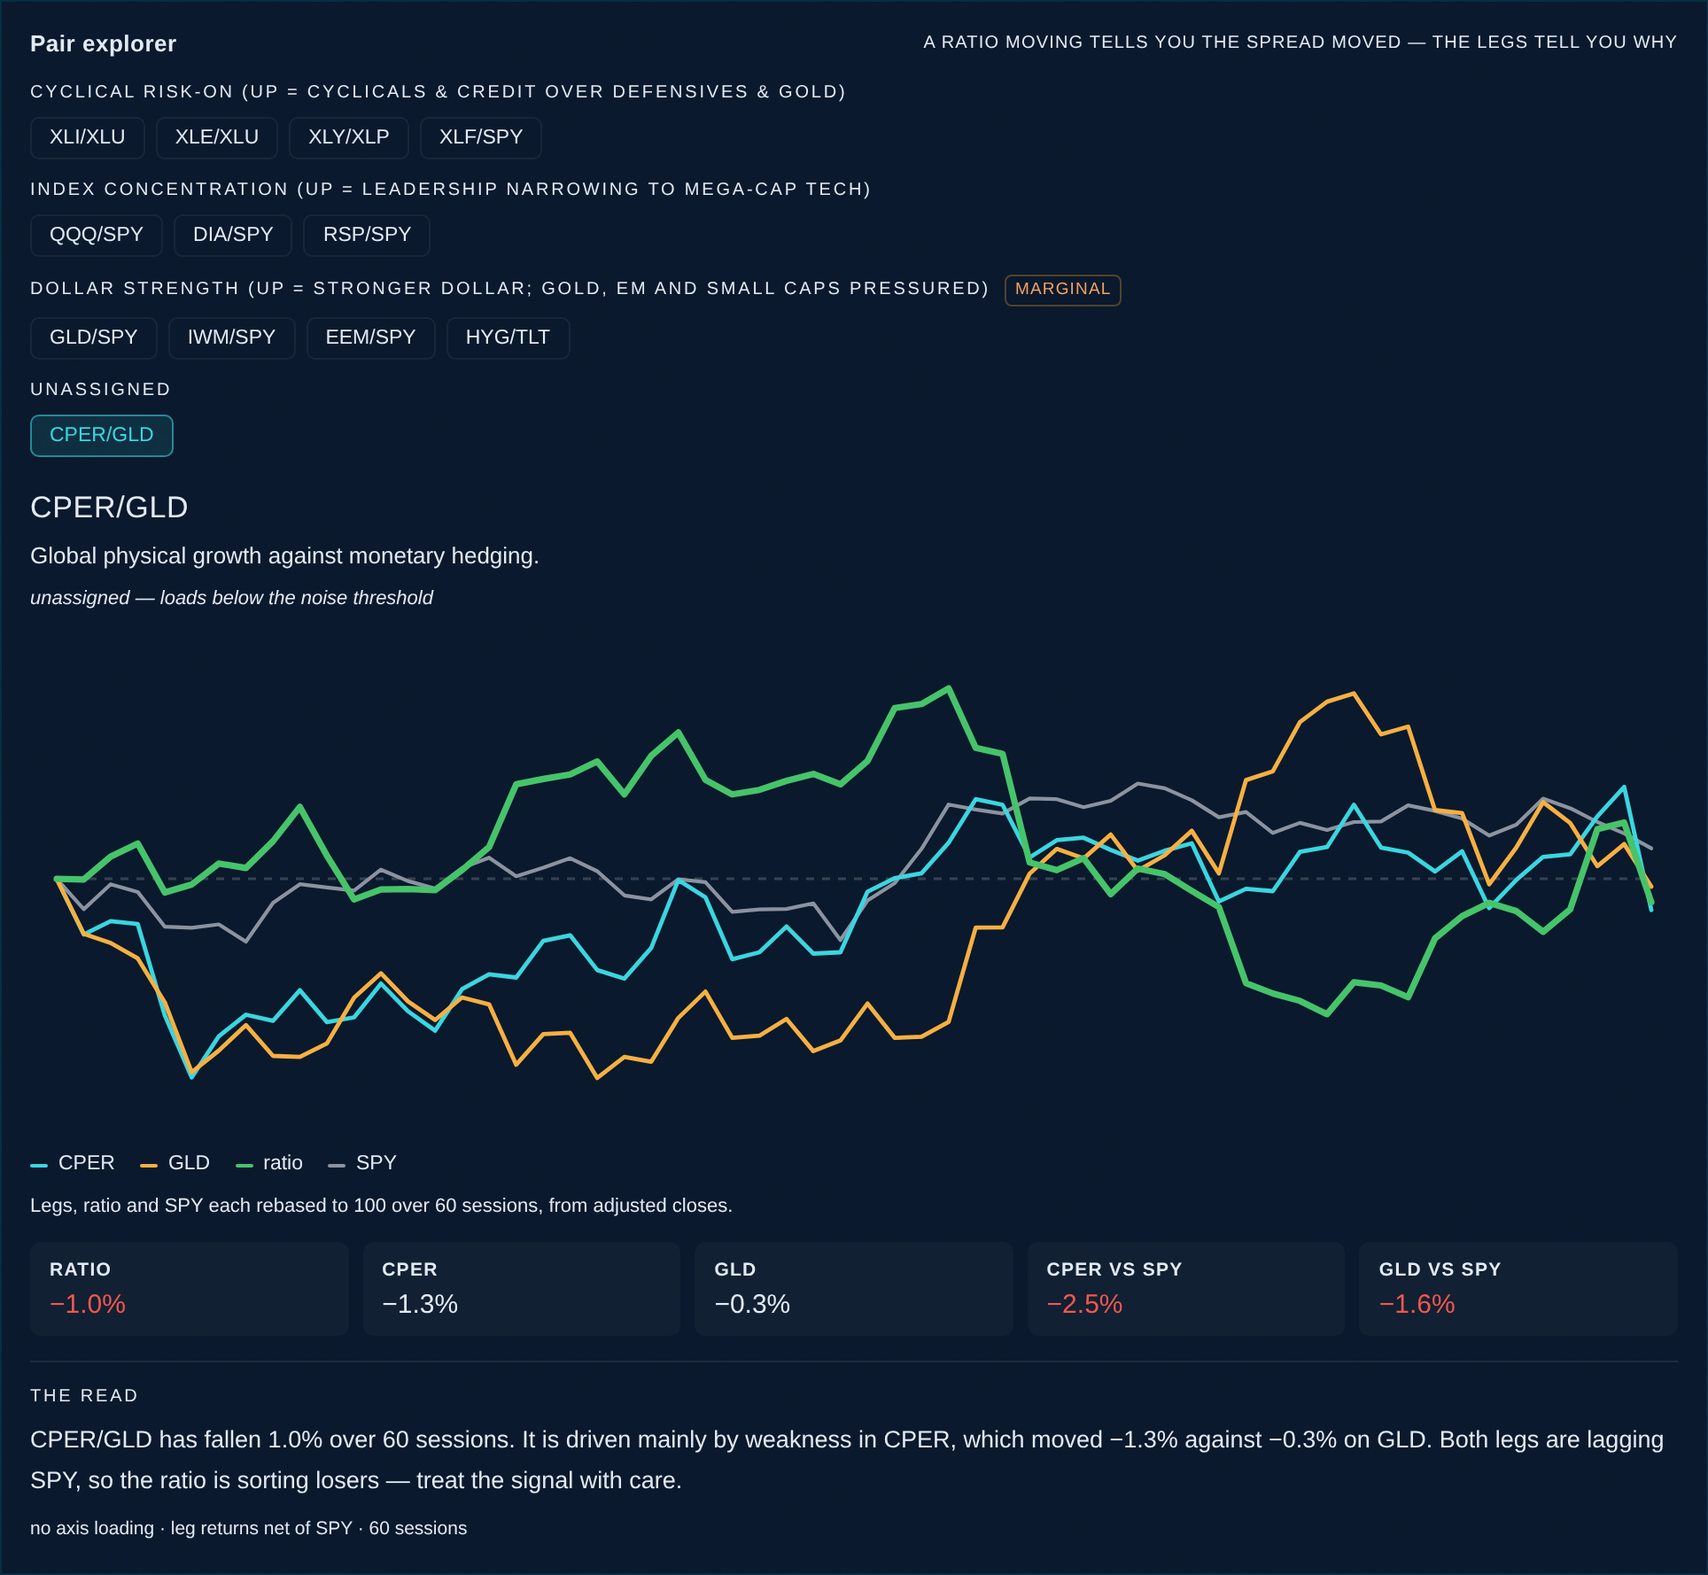
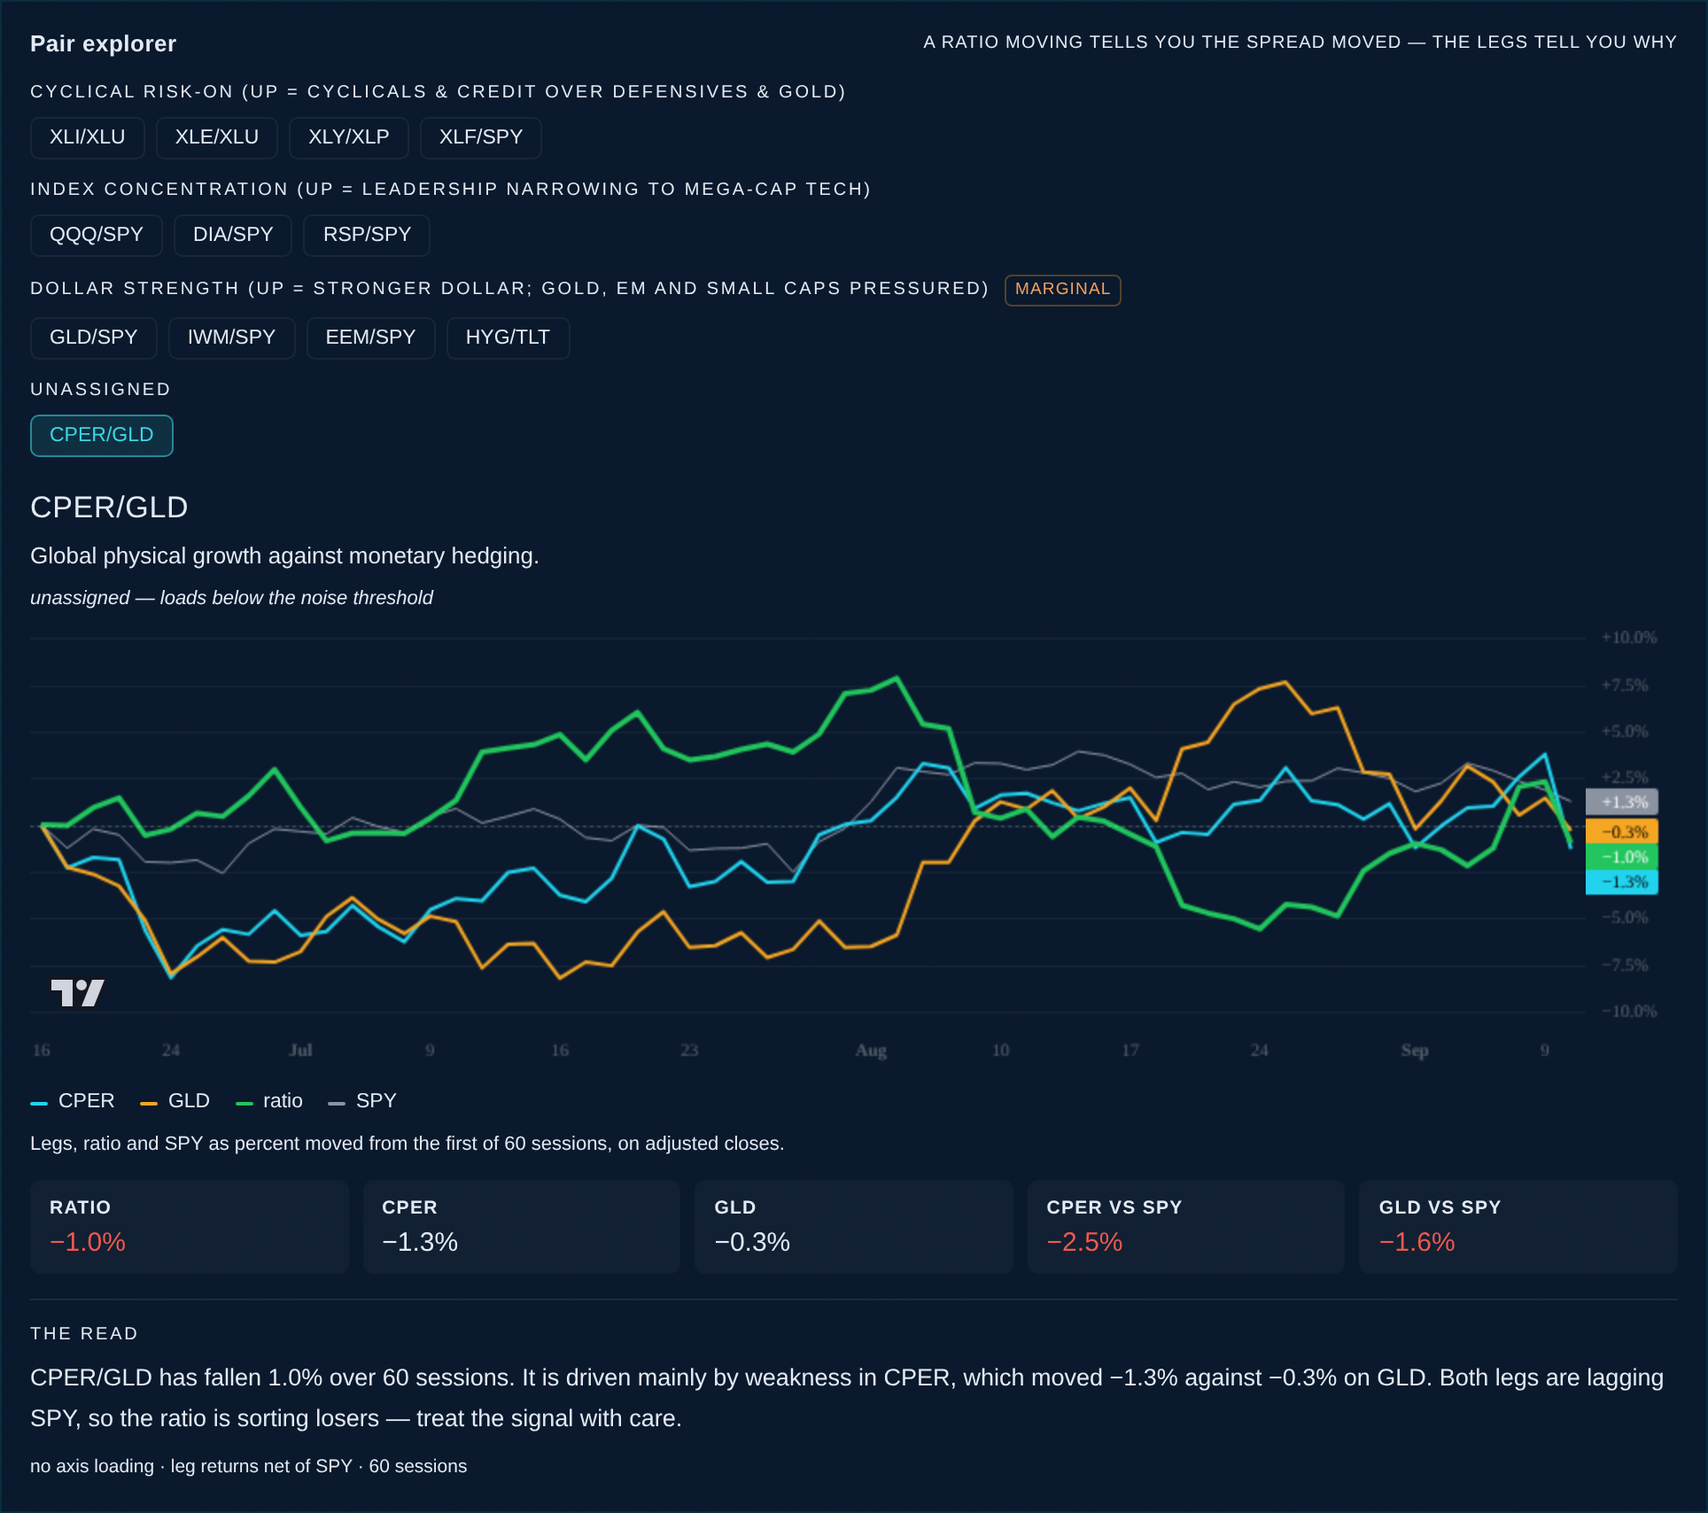
A2.2: put the pair chart on lightweight-charts, with both axes
The explorer drew four <path> elements into a bare <svg>. No time axis, no
value axis, and the series plotted as an index rebased to 100 against a dashed
rule at 100 -- so a reader could see that lines diverged and could not say when
or by how much.

Now lightweight-charts v5: TradingView's library, already a dependency and
already what NexusBoard and the perf panels draw with. Real date axis, real
percent axis, house grid and crosshair, one last-value badge per line.

THE SERIES ARE PERCENT FROM THE FIRST SESSION, NOT AN INDEX. buildSeries
rebases to 100, so `rebased - 100` IS that percent -- (v/v0)*100 - 100 =
(v/v0 - 1)*100 -- which needs no second normalisation and no change to the
compute module or its 24 tests. It also puts the baseline on 0, the only value
a percent axis can honestly anchor to: a dashed line at 100 reads as a level,
and a reader cannot tell a level from a move.

The last-value badges reproduce the metric tiles exactly (XLI/XLU: ratio +0.1%,
XLI -4.9%, XLU -5.0%, SPY +1.3%), because both come off the same series. That
is a free cross-check, not a coincidence.

baseOpts and the useChart hook move out of NexusBoard.js into
src/pages/nexus/nexusChart.js now that a second panel reads them. A second copy
is how two charts in the same module drift apart on grid colour, font and scale
margins until nobody can say which is the house style. NexusBoard's behaviour is
unchanged -- same options, same hook, same call sites.
[…]

diff --git a/src/pages/nexus/NexusPairExplorer.js b/src/pages/nexus/NexusPairExplorer.js
@@ -13,12 +13,14 @@
 // ============================================================
 
 import React from 'react';
+import * as LC from 'lightweight-charts';
 import { supabase } from '../../lib/supabase.js';
+import { CHART_COL, useLwChart } from './nexusChart.js';
 import {
     groupPairsByAxis, alignedWindow, buildSeries, metricTiles, pairRead,
 } from './nexusPairsCompute.js';
 
-const { useState, useEffect, useMemo } = React;
+const { useState, useEffect, useMemo, useRef } = React;
 const e = React.createElement;
 
 const WINDOW_SESSIONS = 60;
@@ -26,12 +28,16 @@ const BENCHMARK = 'SPY';
 // Enough calendar to cover 60 sessions with slack for holidays.
 const LOOKBACK_DAYS = 130;
 
-// SPY is not decoration -- it is what lets the read establish whether either
-// leg is actually beating the market, so it needs to be legible. A CSS
-// variable resolved almost to the background here; this is an explicit
-// neutral, heavy enough to follow and cool enough not to compete with the
-// three data lines.
-const COLOR = { num: '#3ad6e0', den: '#f6b042', ratio: '#46c46a', bench: '#8b93a1' };
+// The three data lines take the house chart palette so this panel and the
+// Board read as one system. SPY is the exception and stays an explicit
+// neutral: it is not decoration -- it is what lets the read establish
+// whether either leg is actually beating the market, so it has to be
+// legible. A CSS variable resolved almost to the background here, and the
+// house `dim` is darker still; this grey is heavy enough to follow and cool
+// enough not to compete with the three data lines.
+const COLOR = { num: CHART_COL.cyan, den: CHART_COL.amber, ratio: CHART_COL.green, bench: '#8b93a1' };
+
+const CHART_H = 250;
 
 // PostgREST caps at 1,000 rows whatever `limit` says. 60 sessions across 17
 // symbols is ~1,020 — over the cap by a hair, which is exactly how this
@@ -97,36 +103,64 @@ function usePairData() {
 }
 
 // ── Chart ────────────────────────────────────────────────────
-function Chart({ series, benchIsLeg }) {
-    if (!series || !series.dates.length) return null;
-    const W = 620, H = 190, PAD = 10;
-    const lines = [
-        // In every `X/SPY` pair the benchmark IS a leg, and drawing it again
-        // as a reference puts two identical lines on the chart -- one of them
-        // hidden under the other, and both in the legend under the same name.
-        ...(benchIsLeg ? [] : [{ pts: series.benchRebased, c: COLOR.bench, w: 1.4 }]),
-        { pts: series.numRebased, c: COLOR.num, w: 1.6 },
-        { pts: series.denRebased, c: COLOR.den, w: 1.6 },
-        // The ratio is the subject; it carries the heaviest stroke.
-        { pts: series.ratioRebased, c: COLOR.ratio, w: 2.4 },
-    ];
-    const all = lines.flatMap(l => l.pts).filter(Number.isFinite).concat([100]);
-    let lo = Math.min(...all), hi = Math.max(...all);
-    const pad = (hi - lo) * 0.08 || 1;
-    lo -= pad; hi += pad;
-    const y = v => PAD + (H - 2 * PAD) * (1 - (v - lo) / (hi - lo));
-    const x = i => PAD + (W - 2 * PAD) * (series.dates.length > 1 ? i / (series.dates.length - 1) : 0);
-    const d = pts => pts.map((v, i) => (i ? 'L' : 'M') + x(i).toFixed(1) + ' ' + y(v).toFixed(1)).join(' ');
+// lightweight-charts (v5), the same scaffold the Board and the perf panels
+// use, so this panel carries real axes: dates along the bottom, percent up
+// the side. The hand-rolled SVG it replaces had neither, which left the
+// reader with four lines and no way to say when anything happened or how
+// far it moved.
+//
+// THE SERIES ARE PLOTTED AS PERCENT FROM THE FIRST SESSION, not as an
+// index. buildSeries rebases to 100, so `rebased - 100` IS that percent --
+// (v/v0)*100 - 100 = (v/v0 - 1)*100 -- with no second normalisation and no
+// change to the compute module. It also puts the baseline on 0, which is
+// the only value a percent axis can honestly anchor to; a dashed line at
+// 100 reads as a level, and a reader cannot tell a level from a move.
+const fmtPct = v => (v < 0 ? '−' : '+') + Math.abs(v).toFixed(1) + '%';
 
-    return e('svg', {
-        viewBox: '0 0 ' + W + ' ' + H, width: '100%', className: 'np-chart', role: 'img',
-        'aria-label': 'Both legs, their ratio and SPY, each rebased to 100 over ' + series.dates.length + ' sessions',
-    },
-        e('line', { x1: PAD, y1: y(100), x2: W - PAD, y2: y(100), stroke: 'rgba(255,255,255,.18)', strokeWidth: 1, strokeDasharray: '3 3' }),
-        lines.map((l, i) => e('path', {
-            key: i, d: d(l.pts), fill: 'none', stroke: l.c, strokeWidth: l.w,
-            strokeLinejoin: 'round', strokeLinecap: 'round',
-        })));
+function Chart({ series, benchIsLeg }) {
+    const ref = useRef(null);
+
+    useLwChart(ref, function (chart) {
+        // rebased[i] - 100 is the percent move from the window's first bar.
+        const pts = arr => series.dates
+            .map((t, i) => ({ time: t, value: (arr && arr[i] != null) ? arr[i] - 100 : null }))
+            .filter(p => Number.isFinite(p.value));
+
+        const add = (color, lineWidth, data) => {
+            const s = chart.addSeries(LC.LineSeries, {
+                color, lineWidth,
+                // Four series would otherwise draw four dashed last-value
+                // rules across the plot. The axis labels carry the same
+                // information without the clutter.
+                priceLineVisible: false,
+                priceFormat: { type: 'custom', minMove: 0.01, formatter: fmtPct },
+            });
+            s.setData(data);
+            return s;
+        };
+
+        // Benchmark first so the three data lines draw over it. In every
+        // `X/SPY` pair the benchmark IS a leg, and drawing it again as a
+        // reference puts two identical lines on the chart -- one hidden
+        // under the other, and both in the legend under the same name.
+        if (!benchIsLeg) add(COLOR.bench, 1, pts(series.benchRebased));
+        add(COLOR.num, 2, pts(series.numRebased));
+        add(COLOR.den, 2, pts(series.denRebased));
+        // The ratio is the subject; it carries the heaviest stroke.
+        const ratio = add(COLOR.ratio, 3, pts(series.ratioRebased));
+
+        ratio.createPriceLine({
+            price: 0, color: 'rgba(255,255,255,0.18)', lineWidth: 1, lineStyle: 2,
+            axisLabelVisible: false,
+        });
+    }, [series, benchIsLeg], { height: CHART_H });
+
+    if (!series || !series.dates.length) return null;
+    return e('div', {
+        className: 'np-chart', ref, role: 'img',
+        'aria-label': 'Both legs and their ratio' + (benchIsLeg ? '' : ', with SPY')
+            + ', as percent moved over ' + series.dates.length + ' sessions',
+    });
 }
 
 const sgn = (v, dp = 1) => (v == null ? '—' : (v < 0 ? '−' : '+') + Math.abs(v).toFixed(dp));
@@ -223,11 +257,11 @@ function NexusPairExplorer() {
                                 e('i', { style: { background: c } }), lab))),
                 e('div', { className: 'np-note' },
                     (benchIsLeg
-                        ? 'Legs and ratio each rebased to 100 over ' + model.series.dates.length
-                          + ' sessions, from adjusted closes. ' + BENCHMARK
-                          + ' is a leg here, so it is not drawn twice.'
-                        : 'Legs, ratio and ' + BENCHMARK + ' each rebased to 100 over '
-                          + model.series.dates.length + ' sessions, from adjusted closes.')
+                        ? 'Legs and ratio as percent moved from the first of '
+                          + model.series.dates.length + ' sessions, on adjusted closes. '
+                          + BENCHMARK + ' is a leg here, so it is not drawn twice.'
+                        : 'Legs, ratio and ' + BENCHMARK + ' as percent moved from the first of '
+                          + model.series.dates.length + ' sessions, on adjusted closes.')
                     + (model.win.truncated ? ' Window is short: only ' + model.series.dates.length
                         + ' sessions are present in all three series.' : '')),
 

diff --git a/src/pages/nexus/NexusBoard.js b/src/pages/nexus/NexusBoard.js
@@ -12,44 +12,24 @@
 
 import React from 'react';
 import * as LC from 'lightweight-charts';
+import { CHART_COL, useLwChart } from './nexusChart.js';
 import { NexusFaceToggle, useFace } from './NexusFaceToggle.js';
 import { Ghost } from './NexusGhost.js';
 
-const { useState, useEffect, useRef } = React;
+const { useState, useRef } = React;
 const e = React.createElement;
 
-// Theme hexes (lightweight-charts needs literals, not CSS vars).
-const COL = { cyan: '#22d3ee', purple: '#8b5cf6', amber: '#f5a623', green: '#22c55e', red: '#ef4444', dim: '#51647b' };
+// Theme hexes (lightweight-charts needs literals, not CSS vars). Shared with
+// the pair explorer via nexusChart.js.
+const COL = CHART_COL;
 const EVENT_COL = { FOMC: COL.amber, CPI: COL.cyan, NFP: COL.purple };
 
 const pct = (v, d = 1) => (v == null ? '—' : (v >= 0 ? '+' : '−') + Math.abs(v).toFixed(d) + '%');
 const moveTone = v => (v > 0 ? COL.green : v < 0 ? COL.red : COL.dim);
 
-// ── Shared chart scaffold (mirrors perf-panels options) ───────
-function baseOpts(width, opts) {
-    return Object.assign({
-        width: width || 600, height: 200,
-        layout: { background: { type: 'solid', color: 'transparent' }, textColor: 'rgba(255,255,255,0.3)', fontFamily: 'JetBrains Mono', fontSize: 10 },
-        grid: { vertLines: { visible: false }, horzLines: { color: 'rgba(255,255,255,0.05)' } },
-        rightPriceScale: { borderVisible: false, scaleMargins: { top: 0.12, bottom: 0.12 } },
-        timeScale: { borderVisible: false, fixLeftEdge: true, fixRightEdge: true },
-        crosshair: { vertLine: { color: 'rgba(255,255,255,0.15)', width: 1, style: 3 }, horzLine: { color: 'rgba(255,255,255,0.15)', width: 1, style: 3 } },
-        handleScroll: false, handleScale: false,
-    }, opts || {});
-}
-
-// Build a chart once `build(chart)` is provided; handles resize + teardown.
-function useChart(ref, build, deps) {
-    useEffect(function () {
-        if (!ref.current) return;
-        const chart = LC.createChart(ref.current, baseOpts(ref.current.clientWidth));
-        try { build(chart); } catch (e) { /* leave empty on series error */ }
-        chart.timeScale().fitContent();
-        const onResize = () => { if (ref.current) chart.applyOptions({ width: ref.current.clientWidth }); };
-        window.addEventListener('resize', onResize);
-        return function () { window.removeEventListener('resize', onResize); chart.remove(); };
-    }, deps);
-}
+// The chart scaffold (baseOpts + useChart) moved to nexusChart.js when the
+// pair explorer became its second reader. Same options, same hook.
+const useChart = useLwChart;
 
 function Card({ title, sub, right, children, span2 }) {
     return e('div', { className: 'nf-card nf-fade nb-card' + (span2 ? ' nb-span2' : '') },

diff --git a/src/pages/nexus/nexusChart.js b/src/pages/nexus/nexusChart.js
@@ -1,0 +1,50 @@
+// ============================================================
+// ATLAS Nexus — shared lightweight-charts scaffold
+// ------------------------------------------------------------
+// These options and this hook were written in NexusBoard.js, whose own
+// header says they "mirror the perf panels". They are now read by two
+// panels, so they live here rather than being copied: a second copy is
+// how two charts in the same module drift apart on grid colour, font and
+// scale margins until nobody can say which one is the house style.
+//
+// lightweight-charts v5 needs colour LITERALS -- it paints to canvas and
+// never resolves a CSS variable -- so the theme hexes are duplicated from
+// the stylesheet on purpose. Keep them in step with nexus-flagship.css.
+// ============================================================
+
+import React from 'react';
+import * as LC from 'lightweight-charts';
+
+const { useEffect } = React;
+
+export const CHART_COL = {
+    cyan: '#22d3ee', purple: '#8b5cf6', amber: '#f5a623',
+    green: '#22c55e', red: '#ef4444', dim: '#51647b',
+};
+
+export function baseOpts(width, opts) {
+    return Object.assign({
+        width: width || 600, height: 200,
+        layout: { background: { type: 'solid', color: 'transparent' }, textColor: 'rgba(255,255,255,0.3)', fontFamily: 'JetBrains Mono', fontSize: 10 },
+        grid: { vertLines: { visible: false }, horzLines: { color: 'rgba(255,255,255,0.05)' } },
+        rightPriceScale: { borderVisible: false, scaleMargins: { top: 0.12, bottom: 0.12 } },
+        timeScale: { borderVisible: false, fixLeftEdge: true, fixRightEdge: true },
+        crosshair: { vertLine: { color: 'rgba(255,255,255,0.15)', width: 1, style: 3 }, horzLine: { color: 'rgba(255,255,255,0.15)', width: 1, style: 3 } },
+        handleScroll: false, handleScale: false,
+    }, opts || {});
+}
+
+// Build a chart once `build(chart)` is provided; handles resize + teardown.
+// `opts` is merged over baseOpts, so a panel can set its own height or turn
+// a scale on without restating the theme.
+export function useLwChart(ref, build, deps, opts) {
+    useEffect(function () {
+        if (!ref.current) return;
+        const chart = LC.createChart(ref.current, baseOpts(ref.current.clientWidth, opts));
+        try { build(chart); } catch (err) { /* leave empty on series error */ }
+        chart.timeScale().fitContent();
+        const onResize = () => { if (ref.current) chart.applyOptions({ width: ref.current.clientWidth }); };
+        window.addEventListener('resize', onResize);
+        return function () { window.removeEventListener('resize', onResize); chart.remove(); };
+    }, deps);
+}

diff --git a/src/styles/nexus-flagship.css b/src/styles/nexus-flagship.css
@@ -1472,7 +1472,9 @@
 .np-tie { color:#f6b042; }
 .np-unassigned { color:var(--text3); font-style:italic; }
 
-.np-chart { display:block; width:100%; height:auto; margin-top:4px; }
+/* Height is set here AND as the lightweight-charts option (CHART_H in
+   NexusPairExplorer.js) -- keep the two in step. */
+.np-chart { display:block; width:100%; height:250px; margin-top:8px; }
 .np-legend { display:flex; flex-wrap:wrap; gap:14px; margin-top:8px; font-size:11.5px; color:var(--text2); }
 .np-leg { display:inline-flex; align-items:center; gap:6px; }
 .np-leg i { width:10px; height:2.5px; border-radius:2px; display:inline-block; }

diff --git a/docs/A2_2_PAIR_EXPLORER_REPORT.md b/docs/A2_2_PAIR_EXPLORER_REPORT.md
@@ -37,6 +37,34 @@ showing only the winner would assert more than 1% of margin can carry. **This
 is the one item still open for the owner:** confirm `dollar`, or override to
 `cyclical` in `factor_axis_loadings`. Do not resolve it in the component.
 
+## The chart is lightweight-charts, not hand-rolled SVG (2026-09-11)
+
+The first version drew four `<path>` elements into a bare `<svg>`: no time
+axis, no value axis, and the series plotted as an index rebased to 100 with a
+dashed rule at 100. A reader could see that lines diverged and could not say
+**when** or **by how much**.
+
+It now uses **lightweight-charts v5** — TradingView's library, already a
+dependency and already what `NexusBoard` and the perf panels draw with — so
+the panel carries a real date axis, a real percent axis, the house grid and
+crosshair, and a last-value badge per line.
+
+**The series are percent from the first session, not an index.** `buildSeries`
+rebases to 100, so `rebased − 100` *is* that percent — (v/v₀)·100 − 100 =
+(v/v₀ − 1)·100 — with no second normalisation and no change to the compute
+module or its tests. It also puts the baseline on **0**, which is the only
+value a percent axis can honestly anchor to: a dashed line at 100 reads as a
+level, and a reader cannot tell a level from a move.
+
+The last-value badges are a free cross-check — they reproduce the metric tiles
+exactly (XLI/XLU: ratio +0.1%, XLI −4.9%, XLU −5.0%, SPY +1.3%), because both
+are computed from the same series.
+
+`baseOpts` and the `useChart` hook moved out of `NexusBoard.js` into
+`src/pages/nexus/nexusChart.js` when this panel became their second reader. A
+second copy is how two charts in the same module drift apart on grid colour,
+font and scale margins until nobody can say which one is the house style.
+
 ## Acceptance
 
 | Criterion | Result |
@@ -69,7 +97,8 @@ what reached the screen.
 
 ## Provenance of the screenshots
 
-`docs/a22-explorer-{xli-xlu,rsp-spy,cper-gld}.png`, 2026-09-10.
+`docs/a22-explorer-{xli-xlu,rsp-spy,cper-gld}.png`, re-rendered 2026-09-11
+after the chart change.
 
 The browser in this container cannot reach Supabase (CLAUDE.md). The
 screenshots are produced by replacing **only the transport**: `window.fetch` is
